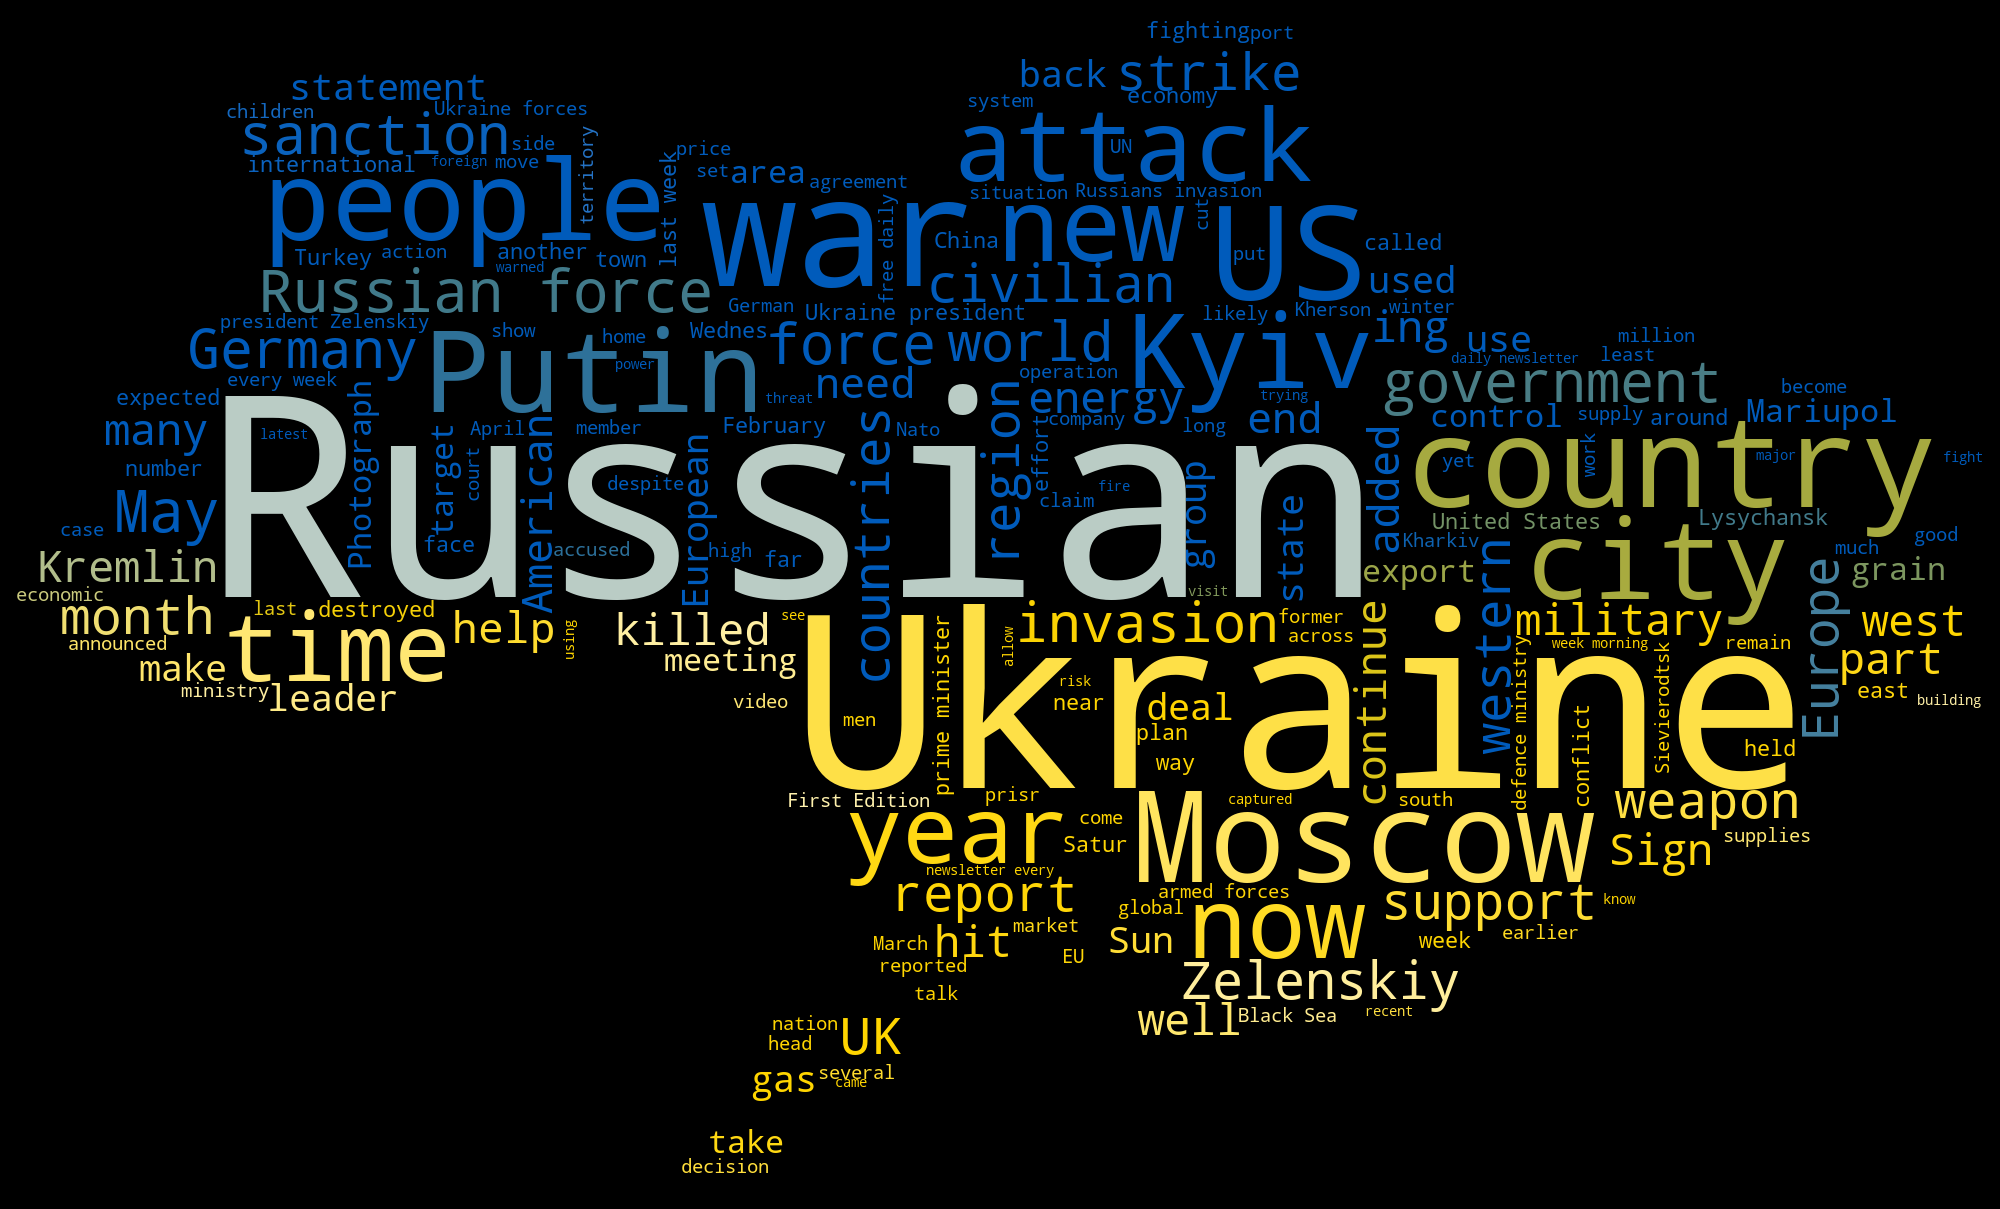
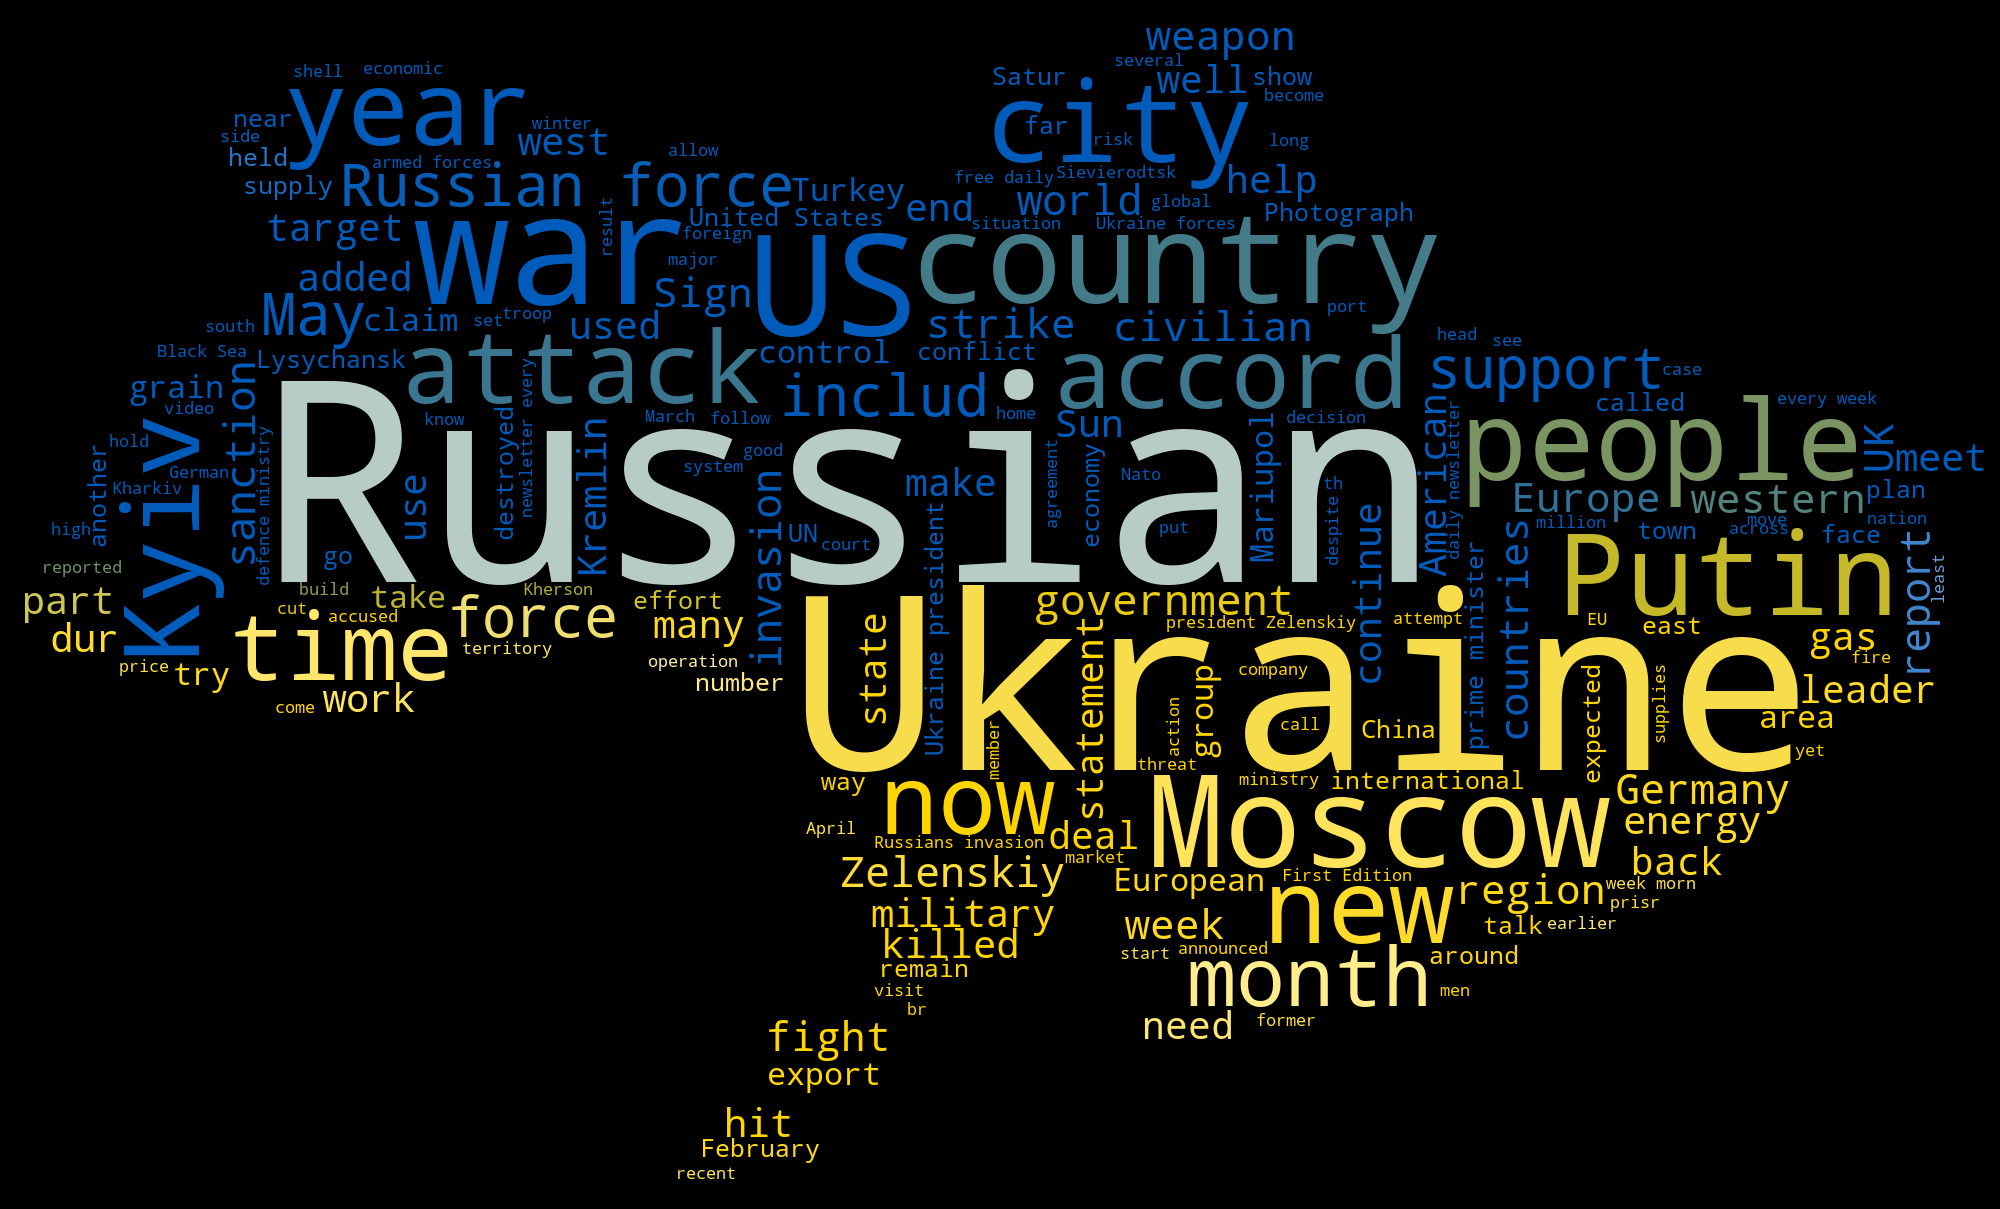
removed some words from cloud

Changed region(s): [[0.0, 0.0, 0.992, 0.9793]]

diff --git a/Wordcloud/cloud.py b/Wordcloud/cloud.py
@@ -32,6 +32,11 @@ text = re.sub(r"http\S+", "", text)
 text = re.sub(r"#\S+", "", text)
 text = re.sub(r"@\S+", "", text)
 text = re.sub(r"’", "", text)
+text = re.sub(r"ing", "", text)
+text = re.sub(r"last", "", text)
+text = re.sub(r"Wednes", "", text)
+text = re.sub(r"much", "", text)
+text = re.sub(r"likely", "", text)
 text = re.sub(r"said", "", text)
 text = re.sub(r"say", "", text)
 text = re.sub(r"saying", "", text)
